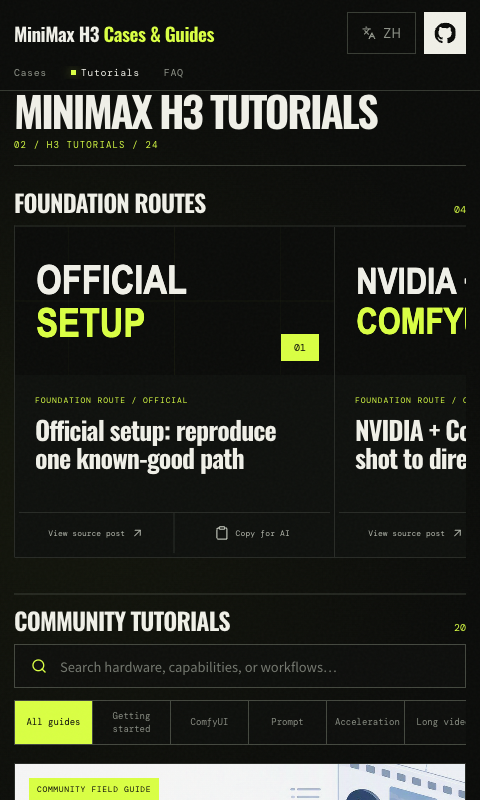
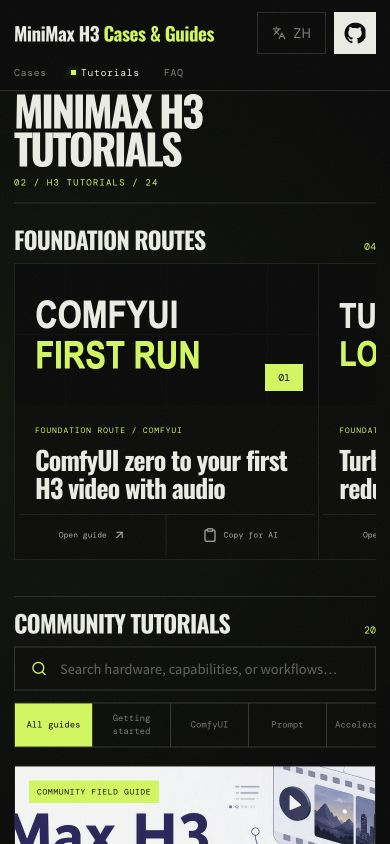
turn foundation routes into complete tutorials

diff --git a/src/App.tsx b/src/App.tsx
@@ -639,6 +639,7 @@ function buildTutorialAiTask(tutorial: TutorialGuide, language: Language) {
   const commands = tutorial.commands.length
     ? `${t.commands}:\n${tutorial.commands.map((command) => `- ${command}`).join('\n')}`
     : ''
+  const checks = tutorial.checks ? section(t.checks, tutorial.checks[language]) : ''
   const guardrail = language === 'zh'
     ? '执行约束：先核验来源项目的最新 README 与版本；不得猜测缺失步骤、命令、参数或素材；涉及付费云资源时先估算费用；任何不确定项先停下说明。'
     : 'Execution guardrail: verify the latest source README and versions first; never guess missing steps, commands, parameters, or media; estimate cost before using paid cloud resources; stop and explain any uncertainty.'
@@ -651,6 +652,7 @@ function buildTutorialAiTask(tutorial: TutorialGuide, language: Language) {
     section(t.prerequisites, tutorial.prerequisites[language]),
     section(t.steps, tutorial.steps[language]),
     commands,
+    checks,
     section(t.caveats, tutorial.caveats[language]),
     `${t.source}: ${tutorial.source.url}`,
     guardrail,
@@ -691,9 +693,15 @@ function CopyTutorialButton({ tutorial, language, compact = false }: { tutorial:
 
 function TutorialCardActions({ tutorial, language }: { tutorial: TutorialGuide; language: Language }) {
   const t = copy[language].tutorials
+  const isFoundation = tutorial.contentType === 'foundation'
   return (
     <div className="tutorial-card-actions">
-      <a href={tutorial.source.url} target="_blank" rel="noreferrer">{t.openSource} <ArrowUpRight size={13} /></a>
+      <a
+        href={isFoundation ? tutorialPath(language, tutorial.id) : tutorial.source.url}
+        {...(!isFoundation ? { target: '_blank', rel: 'noreferrer' } : {})}
+      >
+        {isFoundation ? t.openGuide : t.openSource} <ArrowUpRight size={13} />
+      </a>
       <CopyTutorialButton tutorial={tutorial} language={language} compact />
     </div>
   )
@@ -833,7 +841,7 @@ function TutorialDetailPage({ language, tutorial }: { language: Language; tutori
             <strong>{tutorial.outcome[language]}</strong>
             <div className="resource-tags">{tutorial.tags.map((tag) => <span key={tag}>{tag}</span>)}</div>
             <div className="tutorial-detail-actions">
-              <a href={tutorial.source.url} target="_blank" rel="noreferrer">{t.openSource} <ArrowUpRight size={15} /></a>
+              {tutorial.contentType === 'community' && <a href={tutorial.source.url} target="_blank" rel="noreferrer">{t.openSource} <ArrowUpRight size={15} /></a>}
               <CopyTutorialButton tutorial={tutorial} language={language} />
             </div>
           </div>
@@ -846,6 +854,7 @@ function TutorialDetailPage({ language, tutorial }: { language: Language; tutori
             <section><h2>{t.prerequisites}</h2><ul>{tutorial.prerequisites[language].map((item) => <li key={item}>{item}</li>)}</ul></section>
             <section className="tutorial-detail-steps"><h2>{t.steps}</h2><ol>{tutorial.steps[language].map((item, index) => <li key={item}><span>{String(index + 1).padStart(2, '0')}</span><p>{item}</p></li>)}</ol></section>
             {tutorial.commands.length > 0 && <section><h2>{t.commands}</h2><div className="tutorial-detail-commands">{tutorial.commands.map((command) => <code key={command}>{command}</code>)}</div></section>}
+            {tutorial.checks && <section className="tutorial-detail-checks"><h2>{t.checks}</h2><ul>{tutorial.checks[language].map((item) => <li key={item}><Check size={15} aria-hidden="true" /> <span>{item}</span></li>)}</ul></section>}
             <section><h2>{t.caveats}</h2><ul>{tutorial.caveats[language].map((item) => <li key={item}>{item}</li>)}</ul><small className="tutorial-source-note">{t.sourceNote}</small></section>
           </main>
           <aside className="tutorial-detail-meta">
@@ -856,7 +865,7 @@ function TutorialDetailPage({ language, tutorial }: { language: Language; tutori
               <div><dt>{t.verified}</dt><dd>{tutorial.verifiedAt}</dd></div>
             </dl>
             {engagementItems.length > 0 && <div className="tutorial-engagement"><small>{t.snapshot} / {tutorial.engagement?.snapshotAt}</small>{engagementItems.map(([label, value]) => <span key={label}><strong>{formatMetric(value, language)}</strong>{label}</span>)}</div>}
-            <a className="tutorial-meta-source" href={tutorial.source.url} target="_blank" rel="noreferrer">{t.openSource} <ArrowUpRight size={14} /></a>
+            <a className="tutorial-meta-source" href={tutorial.source.url} target="_blank" rel="noreferrer">{tutorial.contentType === 'foundation' ? t.openReference : t.openSource} <ArrowUpRight size={14} /></a>
           </aside>
         </div>
 

diff --git a/src/i18n.ts b/src/i18n.ts
@@ -124,7 +124,7 @@ export const copy = {
       description: '四条基础路线建立可靠起点；20 篇全球社区实战教程，整理成可学习、可执行、可复制给 AI 的双语工作台。',
       foundationIndex: '01 / 基础路线',
       foundationTitle: '基础路线',
-      foundationDescription: '官方部署、NVIDIA + ComfyUI、Mac 原生、Prompt + Agent Skill。项目工具被放回对应路线，不再与社区教程混在一起。',
+      foundationDescription: '四条可直接照做的 0→1 路线：ComfyUI 首条带声视频、Turbo 低显存加速、Mac 原生运行、Motion Context 长视频续接。',
       communityIndex: '02 / 社区热门教程',
       communityTitle: '社区教程',
       communityDescription: '按相对热度和可执行性精选，所有互动量均为公开快照；只整理，不整篇复制原帖。',
@@ -146,6 +146,7 @@ export const copy = {
       communityLabel: '社区实战',
       openGuide: '打开教程',
       openSource: '查看原帖',
+      openReference: '查看参考资料',
       copyAi: '复制给 AI',
       copied: '已复制 AI 任务包',
       copyFailed: '剪贴板不可用，请手动复制',
@@ -157,8 +158,9 @@ export const copy = {
       prerequisites: '前置条件',
       steps: '执行步骤',
       commands: '命令',
+      checks: '完成标准',
       caveats: '注意事项',
-      source: '来源与核验',
+      source: '参考资料与核验',
       related: '相关工具与资源',
       relatedGuides: '继续学习',
       verified: '核验日期',
@@ -255,7 +257,7 @@ export const copy = {
       description: 'Four foundation routes establish a reliable baseline, followed by 20 global community field guides that are bilingual, executable, and ready to copy into an AI agent.',
       foundationIndex: '01 / FOUNDATION ROUTES',
       foundationTitle: 'Foundation Routes',
-      foundationDescription: 'Official setup, NVIDIA + ComfyUI, native Mac, and Prompt + Agent Skill. Project tools now live under the route where they help.',
+      foundationDescription: 'Four complete zero-to-one routes: first ComfyUI video with audio, Turbo for lower VRAM, native Mac inference, and Motion Context clip chaining.',
       communityIndex: '02 / COMMUNITY FIELD GUIDES',
       communityTitle: 'Community Tutorials',
       communityDescription: 'Curated by relative reach and executability. Engagement figures are public snapshots; guides summarize rather than reproduce source posts.',
@@ -277,6 +279,7 @@ export const copy = {
       communityLabel: 'Community field guide',
       openGuide: 'Open guide',
       openSource: 'View source post',
+      openReference: 'View reference',
       copyAi: 'Copy for AI',
       copied: 'AI task package copied',
       copyFailed: 'Clipboard unavailable. Copy manually below.',
@@ -288,8 +291,9 @@ export const copy = {
       prerequisites: 'Prerequisites',
       steps: 'Steps',
       commands: 'Commands',
+      checks: 'Done when',
       caveats: 'Caveats',
-      source: 'Source and verification',
+      source: 'References and verification',
       related: 'Related tools and resources',
       relatedGuides: 'Continue learning',
       verified: 'Verified',

diff --git a/src/App.test.tsx b/src/App.test.tsx
@@ -231,9 +231,10 @@ describe('case-first routes', () => {
     expect(screen.getByRole('heading', { name: 'MiniMax H3 教程' })).toBeInTheDocument()
     expect(screen.getByRole('heading', { name: '基础路线' })).toBeInTheDocument()
     expect(screen.getByRole('heading', { name: '社区教程' })).toBeInTheDocument()
-    expect(screen.getByRole('link', { name: '官方部署：先跑通一条可复现链路' })).toHaveAttribute(
+    expect(screen.getByRole('link', { name: 'ComfyUI 从零到第一条 H3 带声视频' })).toHaveAttribute(
       'href', '/tutorials/official-deployment/',
     )
+    expect(screen.getAllByRole('link', { name: /打开教程/ })).toHaveLength(4)
     expect(screen.getAllByText('社区实战')).toHaveLength(20)
     expect(screen.queryByRole('heading', { name: '先看 MiniMax H3 的真实效果。' })).not.toBeInTheDocument()
     tutorials.unmount()
@@ -261,10 +262,12 @@ describe('case-first routes', () => {
 
     cleanup()
     renderAt('/tutorials/mac-native/')
-    expect(screen.getByRole('heading', { name: 'Mac 原生运行：纯 C + Metal' })).toBeInTheDocument()
+    expect(screen.getByRole('heading', { name: 'Mac 从零运行 H3：纯 C + Metal' })).toBeInTheDocument()
     expect(screen.getByRole('heading', { name: '命令' })).toBeInTheDocument()
-    expect(screen.getByText('make -j8')).toBeInTheDocument()
-    expect(screen.getAllByRole('link', { name: /查看原帖/ })[0]).toHaveAttribute('href', 'https://github.com/antirez/h3.c')
+    expect(screen.getByText('make -j8 && mkdir -p outputs')).toBeInTheDocument()
+    expect(screen.getByRole('link', { name: /查看参考资料/ })).toHaveAttribute('href', 'https://github.com/antirez/h3.c')
+    expect(screen.getByRole('heading', { name: '完成标准' })).toBeInTheDocument()
+    expect(screen.getAllByText(/outputs\/fox-fast\.mp4/).length).toBeGreaterThanOrEqual(2)
     expect(screen.getByRole('heading', { name: '相关工具与资源' })).toBeInTheDocument()
   })
 
@@ -322,9 +325,9 @@ describe('language isolation', () => {
 
   it('keeps the language switch on the equivalent tutorial detail route', () => {
     renderAt('/en/tutorials/mac-native/')
-    expect(screen.getByRole('heading', { name: 'Native Mac inference: pure C + Metal' })).toBeInTheDocument()
+    expect(screen.getByRole('heading', { name: 'Run H3 on Mac from zero with pure C + Metal' })).toBeInTheDocument()
     expect(screen.getByRole('link', { name: 'Switch to Chinese' })).toHaveAttribute('href', '/tutorials/mac-native/')
-    expect(screen.queryByText('Mac 原生运行：纯 C + Metal')).not.toBeInTheDocument()
+    expect(screen.queryByText('Mac 从零运行 H3：纯 C + Metal')).not.toBeInTheDocument()
     expect(document.body.textContent).not.toMatch(/[\u3400-\u9fff]/u)
   })
 

diff --git a/src/styles.css b/src/styles.css
@@ -2131,6 +2131,11 @@ footer > span {
   align-items: start;
 }
 
+.tutorial-detail-content,
+.tutorial-detail-meta {
+  min-width: 0;
+}
+
 .tutorial-detail-content > section {
   padding: 30px 0 36px;
   border-top: 1px solid var(--line);
@@ -2153,6 +2158,7 @@ footer > span {
   color: #c0c4b9;
   font-size: 15px;
   line-height: 1.8;
+  overflow-wrap: anywhere;
 }
 
 .tutorial-detail-content ul {
@@ -2199,6 +2205,30 @@ footer > span {
   background: #090a08;
   font-family: var(--mono);
   font-size: 11px;
+}
+
+.tutorial-detail-checks ul {
+  padding: 0;
+  display: grid;
+  gap: 1px;
+  background: var(--line);
+  border: 1px solid var(--line);
+  list-style: none;
+}
+
+.tutorial-detail-checks li {
+  padding: 14px 16px;
+  display: grid;
+  grid-template-columns: 20px 1fr;
+  gap: 10px;
+  align-items: start;
+  color: #d6dacd;
+  background: #0c0e0b;
+}
+
+.tutorial-detail-checks svg {
+  margin-top: 6px;
+  color: var(--acid);
 }
 
 .tutorial-source-note {

diff --git a/src/types.ts b/src/types.ts
@@ -83,12 +83,13 @@ export interface TutorialGuide {
   prerequisites: LocalizedList
   steps: LocalizedList
   commands: string[]
+  checks?: LocalizedList
   caveats: LocalizedList
   posterUrl: string
   tags: string[]
   relatedResourceIds: string[]
   source: {
-    platform: 'github' | 'x'
+    platform: 'docs' | 'github' | 'x'
     url: string
     author: string
     handle?: string

diff --git a/README.md b/README.md
@@ -36,7 +36,7 @@
   </picture>
 </a>
 
-**Move from examples to execution.** Follow four concise MiniMax H3 setup routes or open 20 source-checked community tutorials covering NVIDIA + ComfyUI, Apple Silicon Metal inference, Prompt and Agent Skills, Turbo LoRA acceleration, low-VRAM deployment, audio workflows, long-video continuation, and Ref2VA training. Every guide keeps its original source and can be copied as a structured AI task.
+**Move from examples to execution.** Follow four complete MiniMax H3 zero-to-one tutorials—first ComfyUI video with audio, Turbo + low-VRAM acceleration, native Apple Silicon inference, and Motion Context clip chaining—or open 20 source-checked community field guides. Every guide keeps its references and can be copied as a structured AI task.
 
 **Topics covered:** MiniMax H3 · Hailuo H3 · Hailuo 3.0 · AI video examples · MiniMax H3 prompts · ComfyUI workflows · local deployment · Apple Silicon / Metal · Turbo LoRA · long video · audio generation · Ref2VA training.
 
@@ -83,9 +83,9 @@ No account, API key, or local model setup is required to browse the public galle
 
 The tutorial hub is now a learning and execution workspace instead of a GitHub link list:
 
-- **4 foundation routes:** official setup, NVIDIA + ComfyUI, native Mac inference, and Prompt + Agent Skill.
+- **4 complete zero-to-one routes:** first H3 video with audio in ComfyUI, Turbo + low-VRAM acceleration, native Mac inference, and Motion Context clip chaining.
 - **20 community field guides:** source-attributed X tutorials selected for reach and executability across setup, ComfyUI, prompts, acceleration, long video, audio, and training.
-- **Bilingual detail pages:** every guide has separate Chinese and English routes, steps, commands, hardware notes, caveats, author, original source, verification date, and visible engagement snapshot.
+- **Bilingual detail pages:** every guide has separate Chinese and English routes, installation steps, exact commands, hardware notes, troubleshooting, completion checks, references, and verification dates.
 - **Copy for AI:** one action creates a structured task package with environment checks, commands, risks, sources, and a guardrail to verify the latest README instead of guessing missing steps.
 
 The 13 source-checked ecosystem projects still exist, but now appear as related tools inside the route where they are useful. Community posts are summarized and structured; their full text is not copied.

diff --git a/README.zh-CN.md b/README.zh-CN.md
@@ -36,7 +36,7 @@
   </picture>
 </a>
 
-**看完案例，直接开始执行。** 选择 4 条精简的 MiniMax H3 基础路线，或进入 20 篇经过来源核验的社区教程，覆盖 NVIDIA + ComfyUI、Apple Silicon Metal 推理、Prompt 与 Agent Skill、Turbo LoRA 加速、低显存部署、音频工作流、长视频续接和 Ref2VA 训练。每篇教程保留原始来源，并可一键复制成结构化 AI 任务。
+**看完案例，直接开始执行。** 直接跟随 4 条完整的 MiniMax H3 0→1 教程：ComfyUI 第一条带声视频、Turbo + 低显存加速、Apple Silicon 原生推理、Motion Context 长视频续接；或继续浏览 20 篇经过来源核验的社区实战。每篇教程保留参考资料，并可一键复制成结构化 AI 任务。
 
 **覆盖关键词：** MiniMax H3 · Hailuo H3 · Hailuo 3.0 · 海螺 H3 · AI 视频案例 · MiniMax H3 提示词 · ComfyUI 工作流 · 本地部署 · Apple Silicon / Metal · Turbo LoRA · 长视频 · 音频生成 · Ref2VA 训练。
 
@@ -83,9 +83,9 @@
 
 教程页已从“GitHub 链接导航”升级为可学习、可执行的工作台：
 
-- **4 条基础路线：** 官方部署、NVIDIA + ComfyUI、Mac 原生推理、Prompt + Agent Skill；
+- **4 条完整 0→1 路线：** ComfyUI 首条带声视频、Turbo + 低显存加速、Mac 原生推理、Motion Context 长视频续接；
 - **20 篇社区实战：** 按相对热度与可执行性精选 X 教程，覆盖入门、ComfyUI、Prompt、加速、长视频、音频和训练；
-- **中英文独立详情页：** 每篇都有目标、受众、硬件、前置条件、步骤、命令、风险、作者、原帖、互动快照和核验日期；
+- **中英文独立详情页：** 每篇都有安装步骤、准确命令、硬件说明、故障排查、完成标准、参考资料与核验日期；
 - **一键复制给 AI：** 实时生成结构化任务包，并明确要求先核验最新 README、不得猜测缺失步骤。
 
 原有 13 个来源核验生态项目仍然保留，但已经放进对应路线的“相关工具与资源”，不再与社区教程混在同一层级。社区原帖只做来源明确的结构化整理，不整篇复制。
